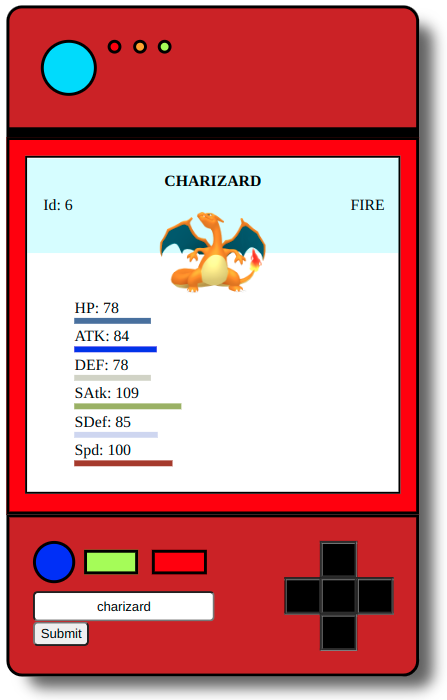
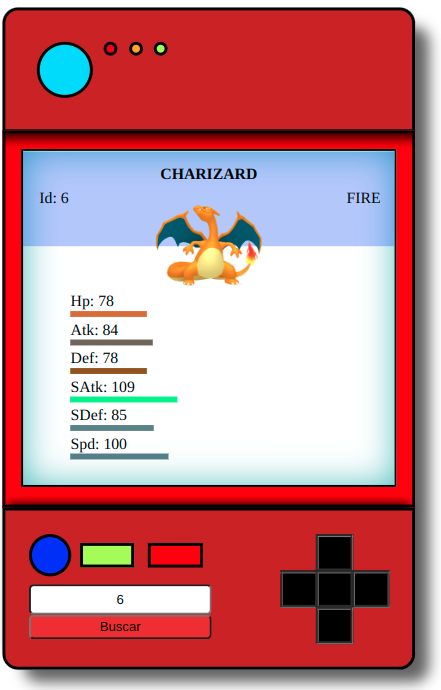
Actualización de los archivos

diff --git a/style.css b/style.css
@@ -21,7 +21,7 @@
 .areaSuperior {
     grid-area: superior;
     border: solid 3px black;
-    border-bottom: solid 10px black;
+    border-bottom: solid 1px black;
     border-radius: 1rem 1rem 0 0;
     background: rgb(192, 36, 36);
     /* Añado flex y padding para acomodar los elemntos */
@@ -32,6 +32,7 @@
 .display {
     border: solid 3px black;
     background: red;
+    box-shadow: 0px 17px 12px -11px rgba(0,0,0,0.84) inset;
 }
 
 .areaInferior {
@@ -45,6 +46,7 @@
         "a . c"
         "b . c"
     ;
+    box-shadow: 0px -11px 10px -6px rgba(0,0,0,0.84);
 }
 
 /* Acomod los elementos en el grid area */
@@ -59,10 +61,11 @@
     height: 21.2rem;
     background: white;
     border: solid .15rem black;
+    box-shadow: 1px 0px 34px -1px rgba(50, 172, 172, 0.84) inset;
 }
 
 .displaySuperior {
-    background: rgba(4, 238, 255, 0.144);
+    background: rgba(4, 50, 255, 0.281);
     padding: 1rem;
     display: grid;
     grid-template-columns: 30px auto 30px;
@@ -105,15 +108,28 @@
     margin-bottom: 5px;
 }
 
-input {
-    width: auto;
+input[type=text] {
+    width: 11.1rem;
     height: 25px;
     text-align: center;
     border-radius: 5px;
     margin-right: 15px;
 }
 
+input[type=submit]{
+    color: black;
+    width: 11.6rem;
+    background-color: rgb(226, 48, 48);
+    height: 25px;
+    text-align: center;
+    border-radius: 5px;
+    margin-right: 15px;
+}
+
+/* Imagen */
 #pokePic {
+    width: 7rem;
+    height: 7rem;
     display: none;
 }
 
@@ -186,9 +202,3 @@ input {
 .cruceta:nth-child(3) {grid-area: mi;}
 .cruceta:nth-child(4) {grid-area: ri;}
 .cruceta:nth-child(5) {grid-area: do;}
-
-/* Imagen */
-#pokePic {
-    width: 7rem;
-    height: 7rem;
-}

diff --git a/app.js b/app.js
@@ -44,9 +44,9 @@ statPokemon = (data) => {
     const spd = document.getElementById('spd');
 
     /* Agrego texto al documento  */
-    hp.innerText = 'HP: ' + data.stats[0].base_stat;;
-    atk.innerText = 'ATK: ' + data.stats[1].base_stat;
-    def.innerText = 'DEF: ' + data.stats[2].base_stat;
+    hp.innerText = 'Hp: ' + data.stats[0].base_stat;;
+    atk.innerText = 'Atk: ' + data.stats[1].base_stat;
+    def.innerText = 'Def: ' + data.stats[2].base_stat;
     satk.innerText = 'SAtk: ' + data.stats[3].base_stat;
     sdef.innerText = 'SDef: ' + data.stats[4].base_stat;
     spd.innerText = 'Spd: ' + data.stats[5].base_stat;

diff --git a/index.html b/index.html
@@ -63,7 +63,7 @@
 
             <div class="buscador">
                 <input type="text" placeholder="Ingresar nombre o Id" id="buscar">
-                <input type="submit" onclick="buscarPoke()">
+                <input type="submit" onclick="buscarPoke()" value="Buscar">
             </div>
 
             <div class="pad">

diff --git a/README.md b/README.md
@@ -1,6 +1,7 @@
 # redoPokedex
 Pokédex utilizando CSS, HTML y JavaScript, se realizo como ejercicio para Launch X pero esta es otra versión.
-Se utilizo mayormente CSS para la generación del documento, javascript para añadir el texto y el haciendo uso de la API de Pokeapi:
+
+Se utilizo mayormente CSS para la generación del documento, javascript para añadir el texto y haciendo uso de la API de Pokeapi:
 
 https://pokeapi.co/
 
@@ -12,10 +13,5 @@ Aún quedan cosas por corregir
 - Añadir estilos al ID del pokemon
 - Agregar algunas animaciones con CSS
 
-## Notas
-Aún sigo aprendiendo GIT.
-Como siempre los Docs son una buen lugar para empezar ~~
-https://docs.github.com/en/get-started/writing-on-github/getting-started-with-writing-and-formatting-on-github/basic-writing-and-formatting-syntax
-
 ## Imagen
-![version 2](pokedex-v2.png)
+![version 3](pokedex-v2.png)
